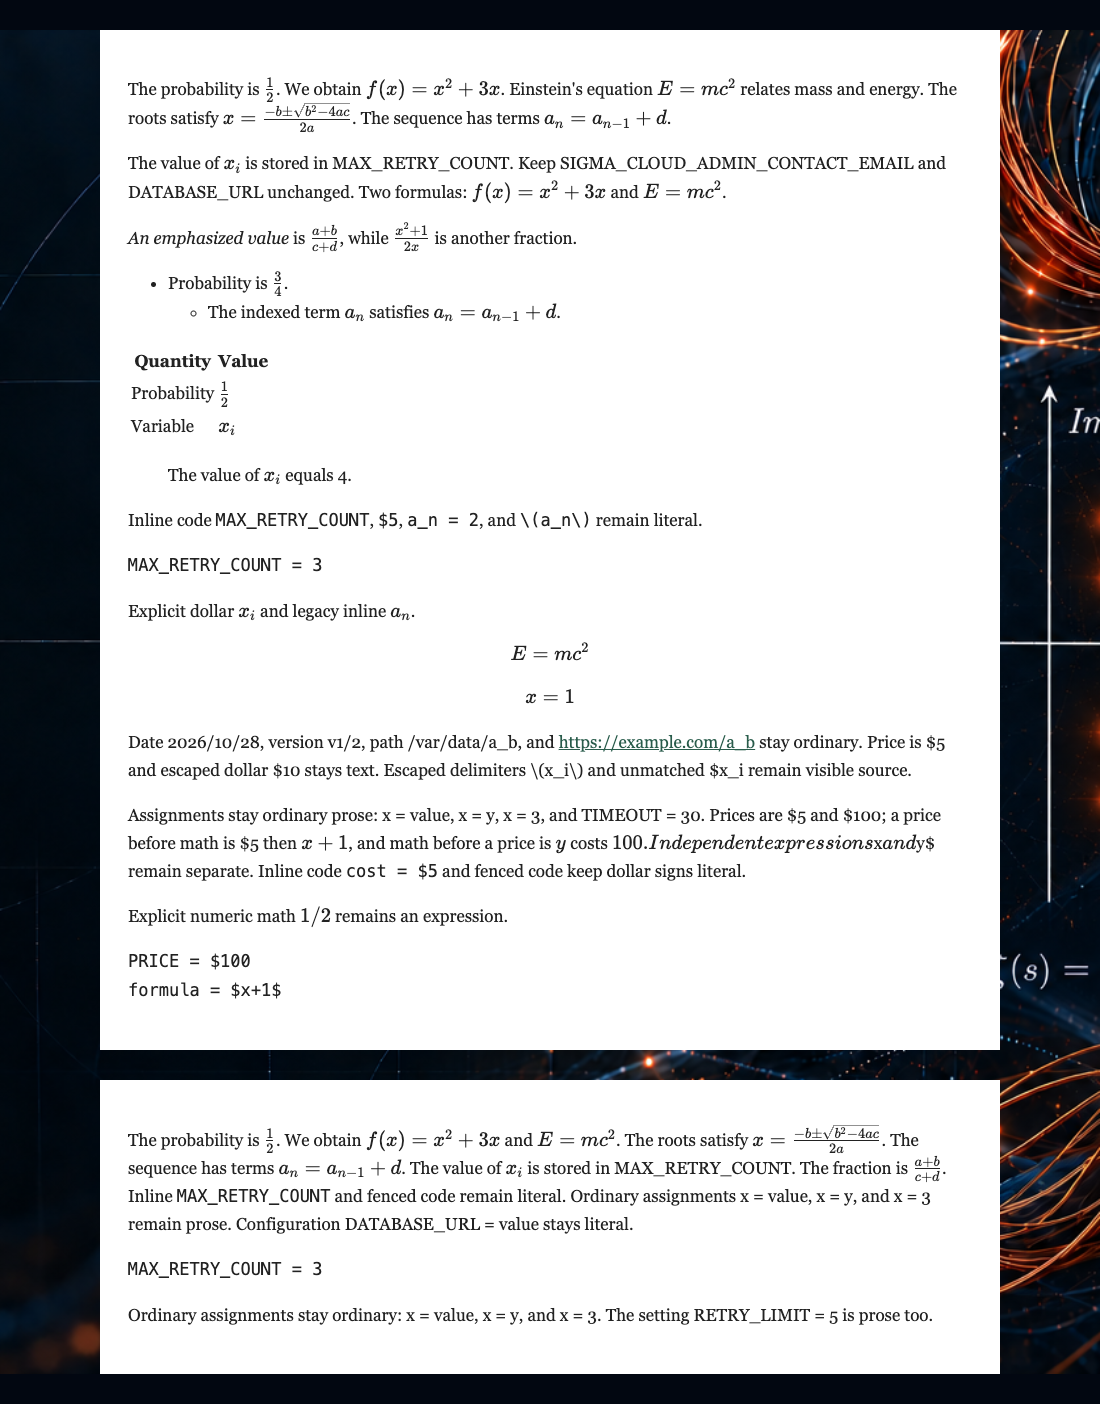
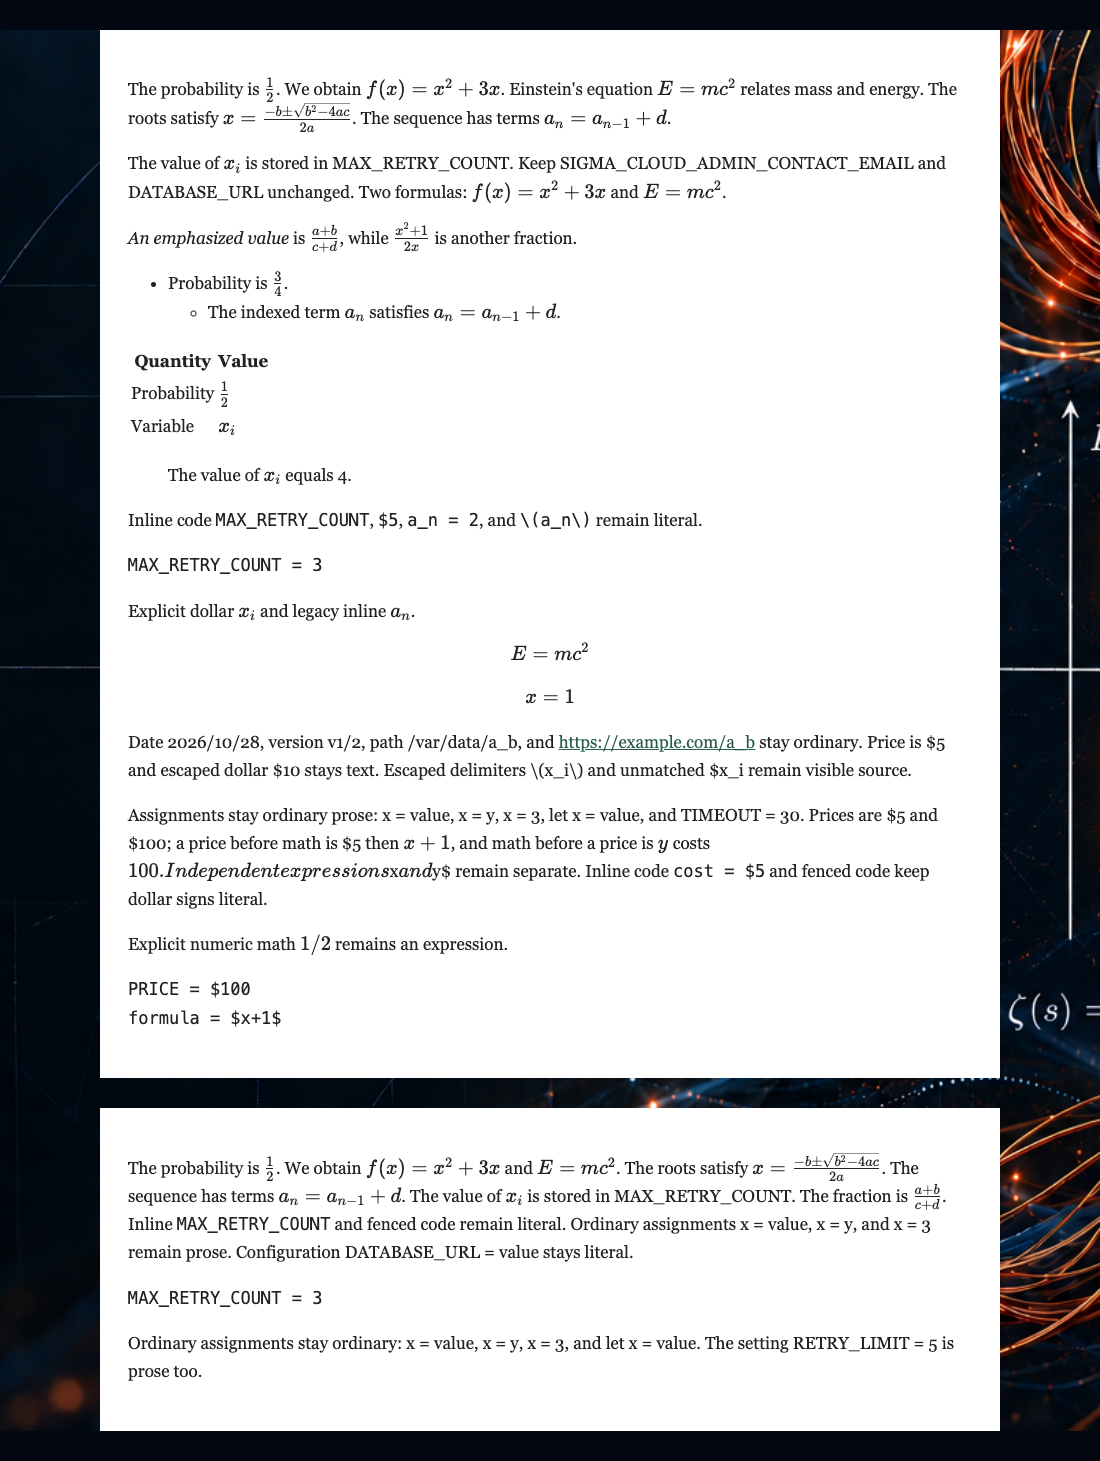
Keep code-like let assignments out of math

diff --git a/frontend/src/RenderedMarkdown.tsx b/frontend/src/RenderedMarkdown.tsx
@@ -77,7 +77,7 @@ function candidates(text: string, structuralContext = ''): Candidate[] {
     if (!/[\p{L}\d]/u.test(right)) return false;
     const boundary = Math.max(text.lastIndexOf('.', match.index), text.lastIndexOf('!', match.index), text.lastIndexOf('?', match.index), text.lastIndexOf(';', match.index), 0);
     const precedingSentence = text.slice(Math.max(boundary, match.index - 100), match.index).toLowerCase();
-    const hasMathematicalCue = /\b(?:equation|root|roots|sequence|term|variable|function|probability|fraction|ratio|solution|solve|formula|identity|satisf(?:y|ies)|denote|defined|let|obtain|substitute|calculate|compute|evaluate|algebraic|mathematical)\b/u.test(precedingSentence);
+    const hasMathematicalCue = /\b(?:equation|root|roots|sequence|term|variable|function|probability|fraction|ratio|solution|solve|formula|identity|satisf(?:y|ies)|denote|defined|obtain|substitute|calculate|compute|evaluate|algebraic|mathematical)\b/u.test(precedingSentence);
     const hasFormulaStructure = /[+−\-*/^_{}²³√±×÷<>≤≥≠≈∑∫]/u.test(right);
     if (!hasFormulaStructure && !hasMathematicalCue) return false;
     // Trim a natural-language continuation after a mathematical expression.

diff --git a/browser_checks/t301_markdown_math.py b/browser_checks/t301_markdown_math.py
@@ -15,7 +15,7 @@ RAW_BODY = r"""The probability is 1/2. We obtain f(x) = x² + 3x and E = mc². T
 MAX_RETRY_COUNT = 3
 ```
 
-Ordinary assignments stay ordinary: x = value, x = y, and x = 3. The setting RETRY_LIMIT = 5 is prose too."""
+Ordinary assignments stay ordinary: x = value, x = y, x = 3, and let x = value. The setting RETRY_LIMIT = 5 is prose too."""
 
 
 with sync_playwright() as playwright:
@@ -116,9 +116,11 @@ with sync_playwright() as playwright:
     expect(raw).to_contain_text("MAX_RETRY_COUNT")
     expect(raw).to_contain_text("x = value, x = y, and x = 3")
     expect(raw).to_contain_text("DATABASE_URL = value")
+    expect(raw).to_contain_text("let x = value")
     expect(raw.locator(".katex").filter(has_text="x = value")).to_have_count(0)
     expect(raw.locator(".katex").filter(has_text="x = y")).to_have_count(0)
     expect(raw.locator(".katex").filter(has_text="DATABASE_URL")).to_have_count(0)
+    expect(raw.locator(".katex").filter(has_text="let x = value")).to_have_count(0)
     expect(raw.locator(".katex").filter(has_text="MAX_RETRY_COUNT")).to_have_count(0)
     expect(raw.locator("code")).to_have_count(2)
     page.screenshot(path="docs/evaluations/t301/markdown-render-raw-math.png", full_page=True)

diff --git a/tests/text_views.py b/tests/text_views.py
@@ -1019,7 +1019,7 @@ async def main_async(root: Path):
         "Inline `a_n = 2` and fenced identifiers remain literal.\n\n"
         "```python\nMAX_RETRY_COUNT = 3\n```\n\n"
         r"Escaped \(x_i\); unmatched $x_i stays text." + "\n\n"
-        "Ordinary assignments x = value, x = y, and x = 3 plus configuration "
+        "Ordinary assignments x = value, x = y, x = 3, and let x = value, plus configuration "
         "RETRY_LIMIT = 5 remain prose. Multiple prices are $5 and $100. "
         "Currency before explicit $x+1$ and math before currency $y$ costs $100; "
         "independent formulas $x$ and $y$ stay distinct. Escaped \\$10 and unmatched $x_i stay text.\n\n"

diff --git a/docs/evaluations/t301/markdown-regression-output.md b/docs/evaluations/t301/markdown-regression-output.md
@@ -30,7 +30,7 @@ $$
 
 Date 2026/10/28, version v1/2, path /var/data/a_b, and https://example.com/a_b stay ordinary. Price is $5 and escaped dollar \$10 stays text. Escaped delimiters \\(x_i\\) and unmatched $x_i remain visible source.
 
-Assignments stay ordinary prose: x = value, x = y, x = 3, and TIMEOUT = 30. Prices are $5 and $100; a price before math is $5 then $x+1$, and math before a price is $y$ costs $100. Independent expressions $x$ and $y$ remain separate. Inline code `cost = $5` and fenced code keep dollar signs literal.
+Assignments stay ordinary prose: x = value, x = y, x = 3, let x = value, and TIMEOUT = 30. Prices are $5 and $100; a price before math is $5 then $x+1$, and math before a price is $y$ costs $100. Independent expressions $x$ and $y$ remain separate. Inline code `cost = $5` and fenced code keep dollar signs literal.
 
 Explicit numeric math $1/2$ remains an expression.
 

diff --git a/docs/evaluations/t301/README.md b/docs/evaluations/t301/README.md
@@ -13,7 +13,8 @@ It checks the KaTeX TeX annotations for the expected formulas, as well as math
 in prose, lists, a nested list, a GFM table, blockquotes, inline code and a code
 fence. It also checks preservation of identifiers, dates, paths, URLs, currency,
 and malformed or escaped delimiters.
-Adversarial cases now include bare `x = value`, `x = y`, and `x = 3`, a
+Adversarial cases now include bare `x = value`, `x = y`, `x = 3`, and the
+code-like `let x = value` form, a
 configuration assignment, multiple `$5`/`$100` prices before and after explicit
 math, separate `$x$` and `$y$` expressions, and dollar signs in inline/fenced
 code. The browser check verifies literal rendered text alongside each KaTeX
